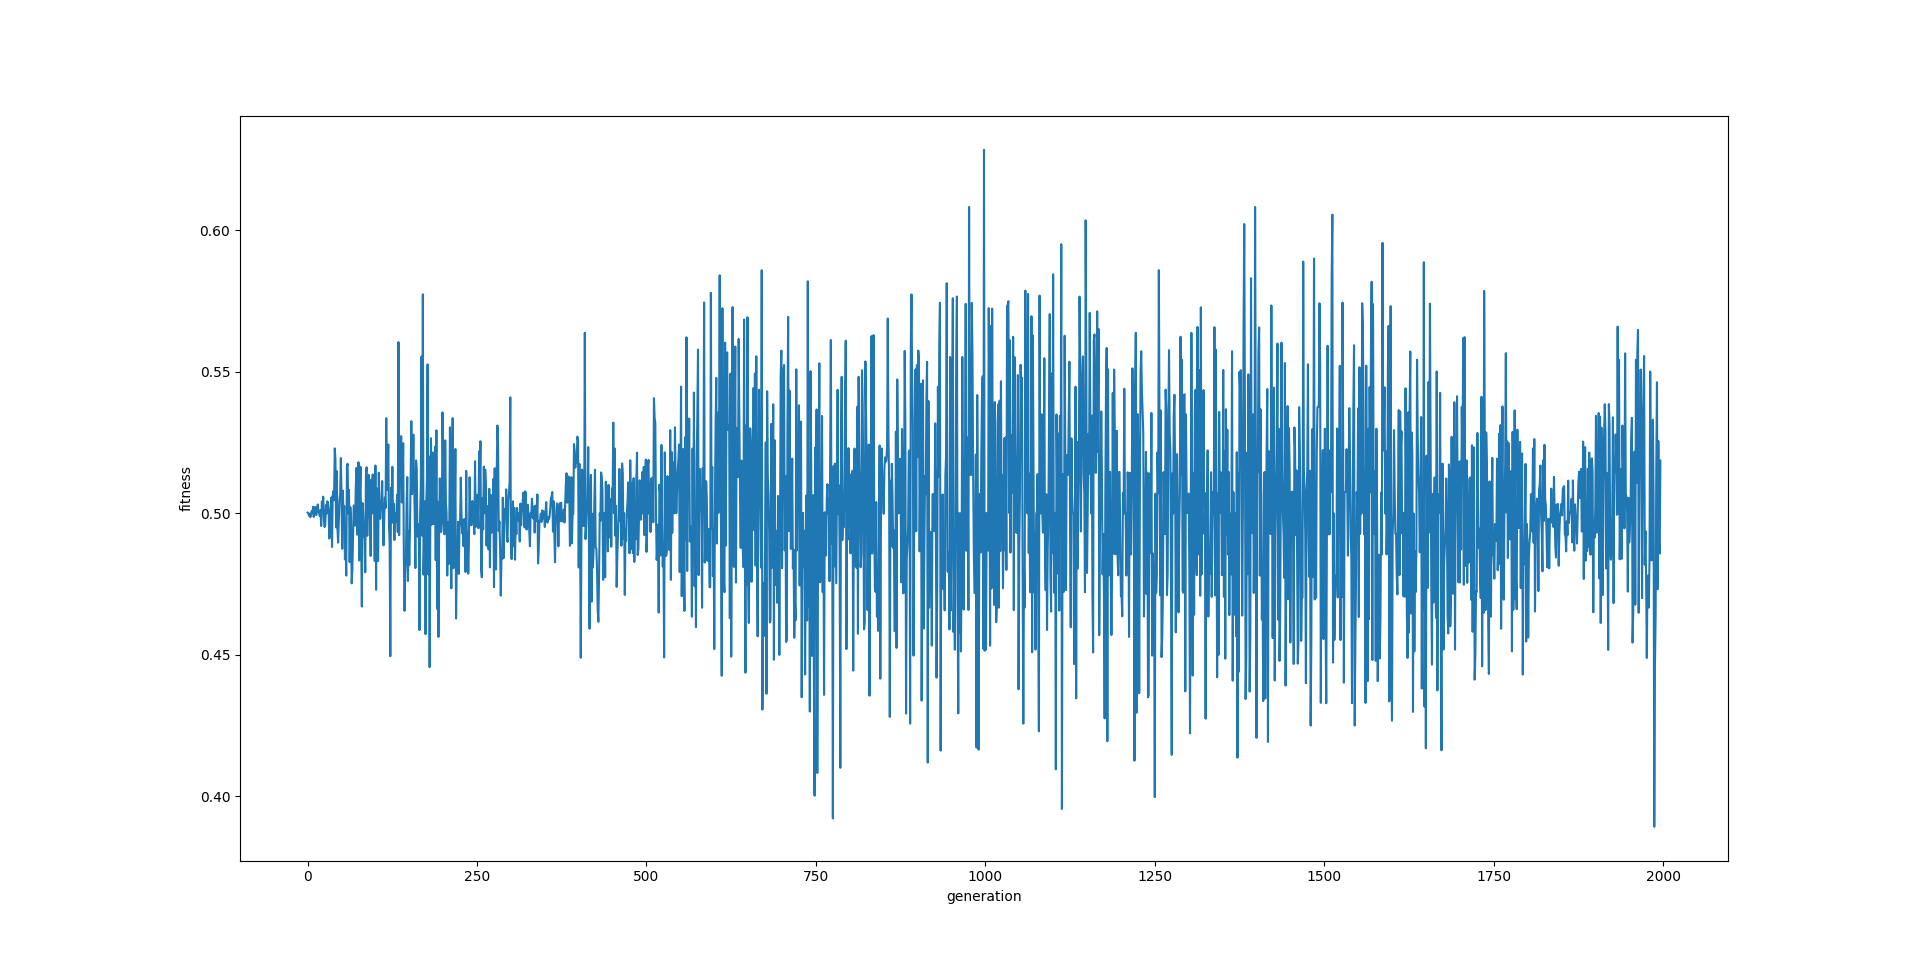
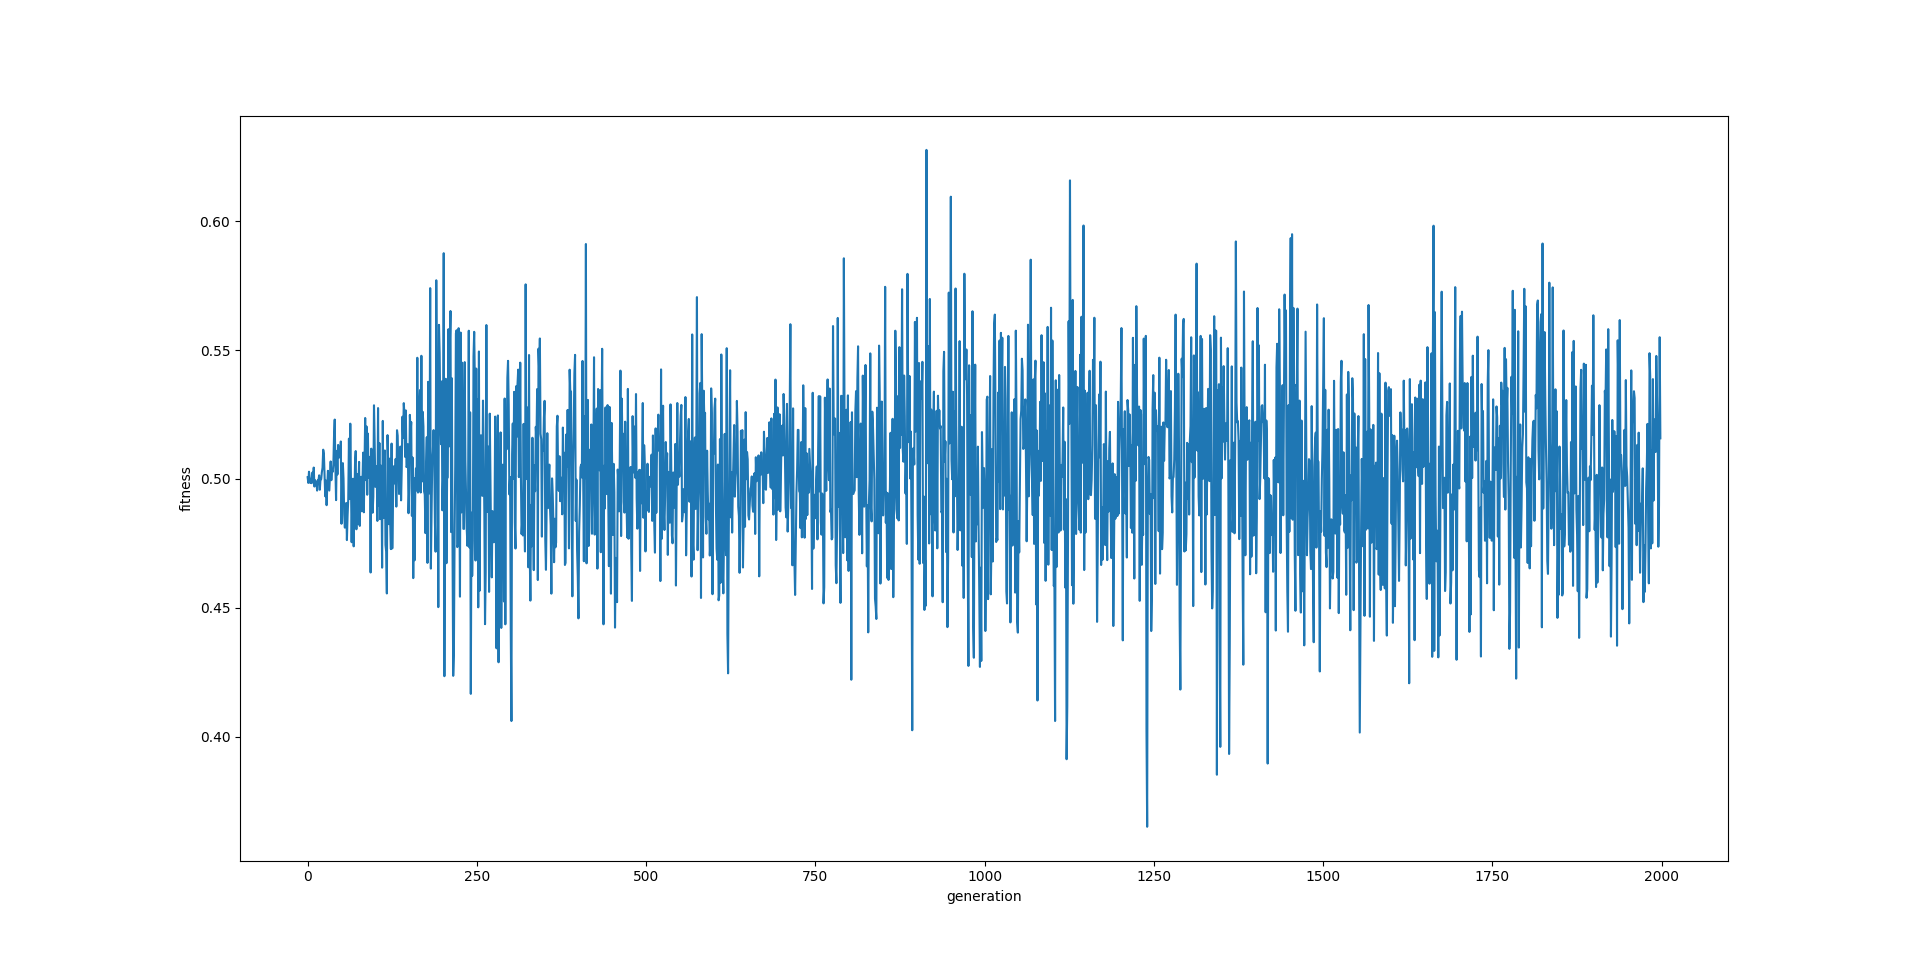
better acc

Changed region(s): [[0.1562, 0.2172, 0.875, 0.8066], [0.8438, 0.8997, 0.875, 0.9307], [0.0938, 0.2172, 0.125, 0.2482]]

diff --git a/utils/nn.py b/utils/nn.py
@@ -3,13 +3,8 @@ import numpy as np
 
 class Layer:
     def __init__(self, n_inputs: int, n_neurons: int, activation: callable) -> None:
-        self.weights = np.random.uniform(low=-1,
-                                         high=1,
-                                         size=(n_inputs, n_neurons))
-        # self.biases = np.zeros((1, n_neurons))
-        self.biases = np.random.uniform(low=0,
-                                         high=1,
-                                         size=(1, n_neurons))
+        self.weights = np.random.randn(n_inputs, n_neurons) * 10
+        self.biases = np.random.randn(1, n_neurons) * 10
         self.activation = activation
 
     def forward(self, inputs: np.ndarray) -> np.ndarray:

diff --git a/test.py b/test.py
@@ -16,4 +16,6 @@ with open('best_gene.pickle', 'rb') as f:
             correct += 1
         print(f'{np.argmax(value.flatten())} {np.argmax(y)} {np.max(value)} {value} {y}')
     print(correct/len(y_test))
+    print(len(y_train))
+    print(len(y_test))
     # print(gene.nn[0].weights)
